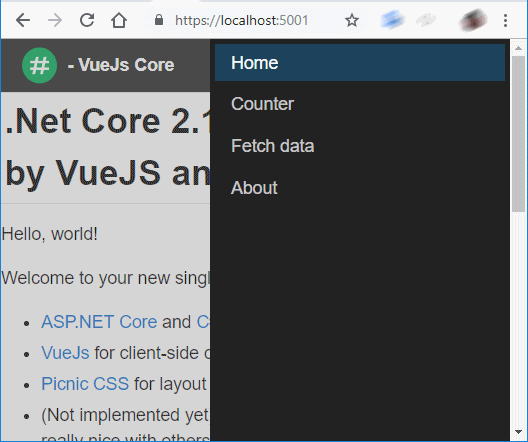
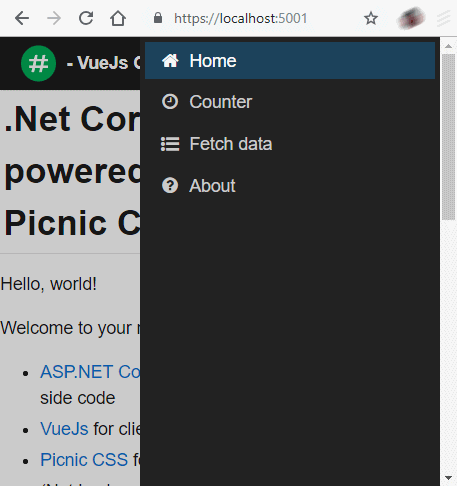
#16 - Updating readme + screenshot

Changed region(s): [[0.0, 0.0, 1.0, 1.0], [0.0, 0.9706, 0.0306, 1.0]]

diff --git a/README.md b/README.md
@@ -3,9 +3,9 @@
 
 # <img src="https://github.com/Nordes/HoNoSoFt.DotNet.Web.Spa.ProjectTemplates/raw/master/VueJs.Picnic.CSharp/ClientApp/static/images/logo.png" height="30" /> Dotnet Core 2.1 + VueJs + Picnic CSS
 
-Idea is to have the minimum as possible in order to have .Net Core 2.1 with Picnic CSS. There's already an [another project using Bootstrap 4+](https://github.com/MarkPieszak/aspnetcore-Vue-starter), however, I would like to have something lighter as a template.
+Idea is to have the small, but really versatile and responsive UI using .Net Core 2.1, VueJS and Picnic CSS. The API's are easy to manage using .Net Core WebAPI classes. If you prefer to use Bootstrap and a different, but quite similar template, there's already [another project](https://github.com/MarkPieszak/aspnetcore-Vue-starter). This template have been created from scratch using some bit of code I've commited in the other project.
 
-This is wanted to be simple a SPA with a minimum dependencies or performance issues. It can however be modified as you please.
+This is wanted to be simple a SPA with a minimum dependencies or performance issues. It can however be modified as you please. The VueJs is configured with Vuex, but this can be removed if you don't feel it meets your requirement. The same goes for the CSS framework.
 
 # Table Of Contents
 - [<img src="https://github.com/Nordes/HoNoSoFt.DotNet.Web.Spa.ProjectTemplates/raw/master/VueJs.Picnic.CSharp/ClientApp/static/images/logo.png" height="30" /> Dotnet Core 2.1 + VueJs + Picnic CSS](#img-src%22httpsgithubcomnordeshonosoftdotnetwebspaprojecttemplatesrawmastervuejspicniccsharpclientappstaticimageslogopng%22-height%2230%22--dotnet-core-21--vuejs--picnic-css)
